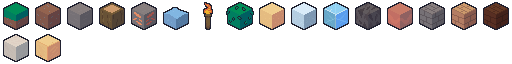
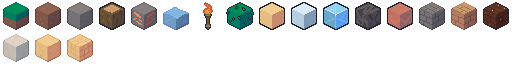
Added Sandstone item
- Icon by Lyxo

diff --git a/Assets/Scripts/Items/Sandstoneblock_Item.cs b/Assets/Scripts/Items/Sandstoneblock_Item.cs
@@ -1,0 +1,26 @@
+using System.Collections;
+using System.Collections.Generic;
+using UnityEngine;
+
+public class Sandstoneblock_Item : Item, IPlaceable
+{
+	public ushort placeableBlockID {get; set;}
+
+	public Sandstoneblock_Item(){
+		this.SetName("Sandstone");
+		this.SetDescription("Sand hardened by nature");
+		this.SetID(ItemID.SANDSTONEBLOCK);
+		this.SetIconID(2, 1);
+		this.SetStackSize(50);
+		this.SetPrice(5);
+		this.SetPriceVar(3);
+		this.SetAspects(new Dictionary<ThaumicAspect, byte>(){{ThaumicAspect.Terra, 2}, {ThaumicAspect.Ordo, 1}});
+		this.SetTags(new List<ItemTag>(){ItemTag.Placeable, ItemTag.Stone});
+		this.SetDurability(false);
+		this.placeableBlockID = (ushort)BlockID.SANDSTONE;
+	}
+
+	public override int Use(){
+		return this.placeableBlockID;
+	}
+}

diff --git a/Assets/Scripts/Item.cs b/Assets/Scripts/Item.cs
@@ -95,6 +95,8 @@ public abstract class Item
 				return new Boneblock_Item();
 			case ItemID.SANDSTONEBRICKBLOCK:
 				return new SandstoneBrickblock_Item();
+			case ItemID.SANDSTONEBLOCK:
+				return new Sandstoneblock_Item();
 			default:
 				return null;
 		}

diff --git a/Assets/Scripts/ItemID.cs b/Assets/Scripts/ItemID.cs
@@ -18,5 +18,6 @@ public enum ItemID : ushort {
     WOODENPLANKSREGULARBLOCK,
     WOODENPLANKSPINEBLOCK,
     BONEBLOCK,
-    SANDSTONEBRICKBLOCK
+    SANDSTONEBRICKBLOCK,
+    SANDSTONEBLOCK
 }
